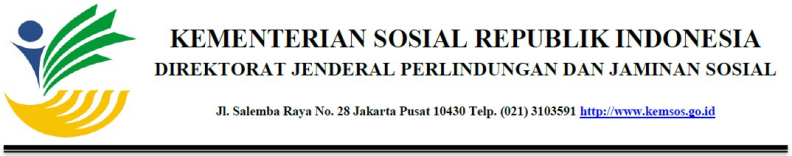
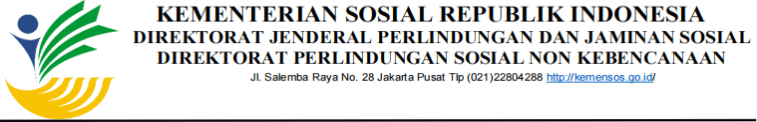
feat(letters): update official Kemensos letterhead to Direktorat PSNK
- Replace letterhead image with official Direktorat Perlindungan Sosial Non Kebencanaan kop
- Update KemensosHeader component to display new Direktorat PSNK header asset

diff --git a/src/letters/KemensosHeader.jsx b/src/letters/KemensosHeader.jsx
@@ -5,10 +5,10 @@ export default function KemensosHeader({customKopUrl = null}) {
   const imgSrc = customKopUrl || kopImage || '/kop-kemensos.png'
 
   return (
-    <header className="kemensos-header-wrap" role="banner" aria-label="Kop Surat Resmi Kementerian Sosial Republik Indonesia">
+    <header className="kemensos-header-wrap" role="banner" aria-label="Kop Surat Resmi Kementerian Sosial Republik Indonesia - Direktorat Jenderal Perlindungan dan Jaminan Sosial - Direktorat Perlindungan Sosial Non Kebencanaan">
       <img
         src={imgSrc}
-        alt="KEMENTERIAN SOSIAL REPUBLIK INDONESIA - DIREKTORAT JENDERAL PERLINDUNGAN DAN JAMINAN SOSIAL - Jl. Salemba Raya No. 28 Jakarta Pusat 10430 Telp. (021) 3103591 http://www.kemsos.go.id"
+        alt="KEMENTERIAN SOSIAL REPUBLIK INDONESIA - DIREKTORAT JENDERAL PERLINDUNGAN DAN JAMINAN SOSIAL - DIREKTORAT PERLINDUNGAN SOSIAL NON KEBENCANAAN - Jl. Salemba Raya No. 28 Jakarta Pusat Tlp (021)22804288 http://kemensos.go.id/"
         className="kemensos-official-header-img"
         loading="eager"
       />
